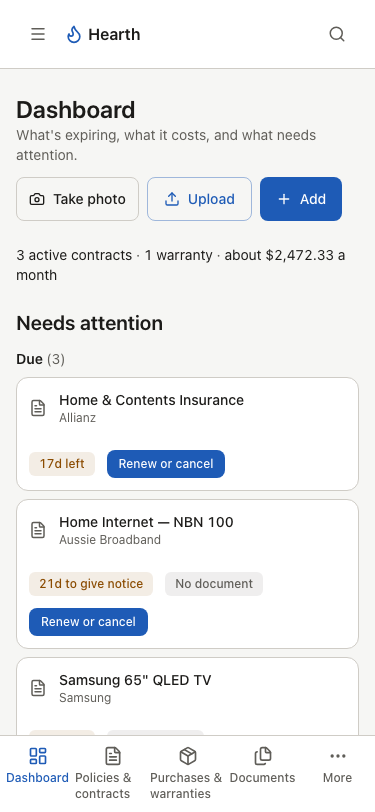
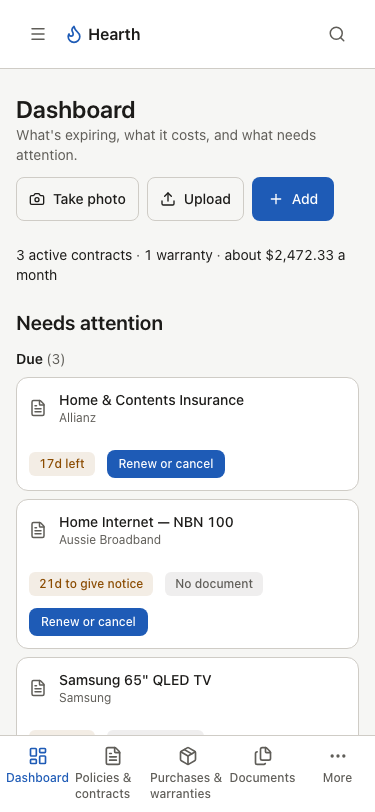
Address review of #401: hide upload controls from read-only members, tighten checks
- Take photo and Upload render only for non-READONLY members on the
  dashboard and Documents tabs; /import redirects READONLY to /documents,
  and the Documents empty state no longer offers them an upload link.
- Spec 07: each capture must bump the Inbox count; the overlap check also
  covers bottom-sticky elements and asserts the last control clears the
  bottom nav at the end of the page; new READONLY test.
- TakePhotoButton: hint span moved outside the label, no aria-disabled on
  the label. Dashboard Upload uses the neutral secondary style.
- Documents Filed tab no longer says "No undefined documents yet."
  (documentsEmptyMessage + unit test).
- Re-shot dashboard, mobile-dashboard and documents screenshots with
  INVENTORY enabled and the Ollama chat provider set.

Claude-Session: https://claude.ai/code/session_01C4ebYzrdU4xwEQQTpWrqmk

Changed region(s): [[0.44, 0.2155, 0.704, 0.2771], [0.792, 0.2155, 0.9093, 0.2771], [0.7333, 0.2155, 0.7627, 0.2463]]

diff --git a/e2e/specs/07-mobile-responsive.spec.ts b/e2e/specs/07-mobile-responsive.spec.ts
@@ -168,16 +168,19 @@ test("swiping from the left screen edge opens the navigation drawer, and the men
   await expect(drawer).toBeHidden();
 });
 
-// #401 (regression of #348): nothing fixed may sit over a tappable control
-// at any scroll position. The bottom nav is the one fixed bar allowed, since
-// <main>'s bottom padding lets the end of every page scroll clear of it.
-// Everything else (the old floating camera button and "Choose file" pill
-// covered dashboard rows and Documents links mid-page) fails this check.
+// #401 (regression of #348): nothing fixed, or stuck to the bottom edge, may
+// sit over a tappable control at any scroll position. The bottom nav is the
+// one bar allowed, since <main>'s bottom padding lets the end of every page
+// scroll clear of it (checked separately below). Everything else (the old
+// floating camera button and "Choose file" pill covered dashboard rows and
+// Documents links mid-page) fails this check.
 async function controlsCoveredByFixedUi(page: import("@playwright/test").Page) {
   return page.evaluate(() => {
     const bottomNav = document.querySelector("nav.fixed.bottom-0");
     const fixed = [...document.querySelectorAll<HTMLElement>("body *")].filter((el) => {
-      if (getComputedStyle(el).position !== "fixed") {
+      const style = getComputedStyle(el);
+      const pinnedToBottom = style.position === "sticky" && style.bottom !== "auto";
+      if (style.position !== "fixed" && !pinnedToBottom) {
         return false;
       }
       if (bottomNav && (el === bottomNav || bottomNav.contains(el))) {
@@ -215,6 +218,45 @@ async function controlsCoveredByFixedUi(page: import("@playwright/test").Page) {
   });
 }
 
+// With the page scrolled to the end, the last control in <main> must sit
+// fully above the bottom nav. This catches losing <main>'s bottom padding,
+// which the per-offset check above deliberately ignores.
+async function lastControlClearOfBottomNav(page: import("@playwright/test").Page) {
+  return page.evaluate(() => {
+    window.scrollTo(0, document.documentElement.scrollHeight);
+    const nav = document.querySelector("nav.fixed.bottom-0");
+    if (!nav) {
+      return { ok: false, detail: "bottom nav not found" };
+    }
+    const navTop = nav.getBoundingClientRect().top;
+    let lowest: { bottom: number; name: string } | null = null;
+    const controls = document.querySelectorAll<HTMLElement>(
+      "main a[href], main button, main label[for], main select, main textarea, main input:not([type=hidden]):not(.sr-only)",
+    );
+    for (const control of controls) {
+      const r = control.getBoundingClientRect();
+      if (r.width <= 1 || r.height <= 1 || !control.checkVisibility()) {
+        continue;
+      }
+      if (!lowest || r.bottom > lowest.bottom) {
+        lowest = { bottom: r.bottom, name: (control.textContent ?? "").trim().slice(0, 40) };
+      }
+    }
+    if (!lowest) {
+      return { ok: true, detail: "no controls" };
+    }
+    return {
+      ok: lowest.bottom <= navTop,
+      detail: `"${lowest.name}" ends at y=${Math.round(lowest.bottom)}, nav starts at y=${Math.round(navTop)}`,
+    };
+  });
+}
+
+async function inboxCount(page: import("@playwright/test").Page) {
+  const text = await page.getByRole("link", { name: /^Inbox/ }).textContent();
+  return Number(/\((\d+)\)/.exec(text ?? "")?.[1] ?? 0);
+}
+
 test.describe("fixed mobile UI never covers controls (#401)", () => {
   test.use({ viewport: { width: 390, height: 844 } });
 
@@ -245,6 +287,7 @@ test.describe("fixed mobile UI never covers controls (#401)", () => {
     await page.goto("/documents");
     await expect(page.getByRole("link", { name: "Upload", exact: true })).toBeVisible();
     for (let i = 0; i < 2; i++) {
+      const before = await inboxCount(page);
       await page.locator('main input[type="file"][accept="image/*"][capture]').setInputFiles({
         name: `overlap-photo-${stamp}-${i}.png`,
         mimeType: "image/png",
@@ -258,7 +301,9 @@ test.describe("fixed mobile UI never covers controls (#401)", () => {
           Buffer.from(`${stamp}-${i}`),
         ]),
       });
-      await expect(page.getByText("Saved to your Inbox for review.").first()).toBeVisible();
+      // Each capture must really land: the Inbox tab's count goes up by one
+      // (the button refreshes the page after saving).
+      await expect(page.getByRole("link", { name: /^Inbox/ })).toHaveText(`Inbox (${before + 1})`);
     }
 
     // The old floating controls are gone.
@@ -285,6 +330,59 @@ test.describe("fixed mobile UI never covers controls (#401)", () => {
         }
       }
       expect(covered).toEqual([]);
+
+      const end = await lastControlClearOfBottomNav(page);
+      expect(end.ok, `${path}: ${end.detail}`).toBe(true);
     }
+  });
+
+  test("read-only members see no upload controls, and /import sends them back to Documents", async ({
+    browser,
+  }) => {
+    const email = `readonly-${Date.now()}@e2e.local`;
+    const password = "E2eTestPassw0rd!23";
+
+    const adminContext = await browser.newContext({ storageState: ADMIN_AUTH_FILE });
+    const adminPage = await adminContext.newPage();
+    await adminPage.goto("/settings/users");
+    await adminPage.locator("#name").fill("Read-only Viewer");
+    await adminPage.locator("#email").fill(email);
+    await adminPage.locator("#password").fill(password);
+    await adminPage.locator("form:has(#password) select#role").selectOption("READONLY");
+    await adminPage.locator("form:has(#password) button[type=submit]").click();
+    await expect(adminPage.locator("body")).toContainText(email);
+
+    // Empty storage state: this file's test.use() would otherwise hand the
+    // new context the admin session too.
+    const viewerContext = await browser.newContext({
+      viewport: { width: 390, height: 844 },
+      storageState: { cookies: [], origins: [] },
+    });
+    const viewer = await viewerContext.newPage();
+    await viewer.goto("/login");
+    await viewer.locator('input[name="email"]').fill(email);
+    await viewer.locator('input[name="password"]').fill(password);
+    await viewer.locator("form button[type=submit]").click();
+    await viewer.waitForURL(/\/dashboard/);
+
+    for (const path of ["/dashboard", "/documents", "/documents/inbox"]) {
+      await viewer.goto(path);
+      await expect(viewer.locator("h1")).toBeVisible();
+      await expect(viewer.locator("main label", { hasText: "Take photo" })).toHaveCount(0);
+      await expect(viewer.locator('main input[type="file"][capture]')).toHaveCount(0);
+      await expect(viewer.getByRole("link", { name: /^Upload( a document)?$/ })).toHaveCount(0);
+    }
+
+    await viewer.goto("/import");
+    await expect(viewer).toHaveURL(/\/documents$/);
+    await viewerContext.close();
+
+    // Remove the extra account again so later specs see the usual household.
+    await adminPage.goto("/settings/users");
+    const row = adminPage.locator("li", { hasText: email });
+    await row.getByRole("button", { name: /Remove .* from the household/ }).click();
+    await adminPage.getByRole("button", { name: "Remove Read-only Viewer", exact: true }).click();
+    await expect(adminPage.locator("body")).not.toContainText(email);
+    await adminContext.close();
   });
 });

diff --git a/src/app/(app)/documents/page.tsx b/src/app/(app)/documents/page.tsx
@@ -5,6 +5,8 @@ import { getEnabledModuleKeys } from "@/lib/modules/enablement";
 import { getUserPreferences } from "@/lib/userPreferences";
 import { DocumentsExplorer, type DocRow } from "@/components/DocumentsExplorer";
 import { DocumentsTabs, DocumentsUploadActions } from "@/components/DocumentsTabs";
+import { documentsEmptyMessage } from "@/lib/documents/emptyMessage";
+import { auth } from "@/lib/auth";
 import { documentFileHref } from "@/lib/documents/kinds";
 import { LIVE_DOCUMENT_WHERE as LIVE } from "@/lib/documents/liveDocuments";
 
@@ -368,6 +370,8 @@ export default async function DocumentsPage({
   searchParams: Promise<{ type?: string; view?: string; page?: string }>;
 }) {
   const { type, view, page: pageParam } = await searchParams;
+  const session = await auth();
+  const canWrite = session?.user.role !== "READONLY";
   const showAll = view === "all";
   const page = Math.max(0, Number(pageParam) || 0);
 
@@ -405,6 +409,13 @@ export default async function DocumentsPage({
     docs = windowRows.slice(0, PAGE_SIZE);
   }
 
+  // null makes the explorer show its "Upload a document" empty state, which a
+  // read-only member can't use, so they get plain text instead.
+  let emptyMessage: string | null = documentsEmptyMessage(type, showAll);
+  if (totalCount === 0) {
+    emptyMessage = canWrite ? null : "No documents uploaded yet.";
+  }
+
   return (
     <div className="space-y-6">
       <div className="flex flex-wrap items-start justify-between gap-3">
@@ -416,7 +427,7 @@ export default async function DocumentsPage({
               : "Documents you've saved to a contract, warranty, or other record."}
           </p>
         </div>
-        <DocumentsUploadActions />
+        {canWrite && <DocumentsUploadActions />}
       </div>
 
       <DocumentsTabs
@@ -446,7 +457,7 @@ export default async function DocumentsPage({
       <DocumentsExplorer
         docs={docs}
         dateFormat={dateFormat}
-        emptyMessage={totalCount === 0 ? null : `No ${type?.toLowerCase()} documents yet.`}
+        emptyMessage={emptyMessage}
       />
 
       {(page > 0 || hasMore) && (

diff --git a/src/components/TakePhotoButton.tsx b/src/components/TakePhotoButton.tsx
@@ -46,35 +46,36 @@ export function TakePhotoButton() {
   }
 
   return (
-    <label
-      htmlFor={inputId}
-      aria-disabled={uploading}
-      className={cn(
-        compactButtonClass("secondary"),
-        "cursor-pointer gap-2 whitespace-nowrap md:hidden has-[:focus-visible]:outline has-[:focus-visible]:outline-2 has-[:focus-visible]:outline-offset-2 has-[:focus-visible]:outline-accent",
-      )}
-    >
-      {uploading ? <Loader2 size={16} className="animate-spin" /> : <Camera size={16} />}
-      Take photo
-      <input
-        ref={inputRef}
-        id={inputId}
-        type="file"
-        accept="image/*"
-        capture="environment"
-        disabled={uploading}
-        aria-describedby={`${inputId}-hint`}
-        className="sr-only"
-        onChange={(e) => {
-          const file = e.target.files?.[0];
-          if (file) {
-            void handleCapture(file);
-          }
-        }}
-      />
+    <>
+      <label
+        htmlFor={inputId}
+        className={cn(
+          compactButtonClass("secondary"),
+          "cursor-pointer gap-2 whitespace-nowrap md:hidden has-[:focus-visible]:outline has-[:focus-visible]:outline-2 has-[:focus-visible]:outline-offset-2 has-[:focus-visible]:outline-accent",
+        )}
+      >
+        {uploading ? <Loader2 size={16} className="animate-spin" /> : <Camera size={16} />}
+        Take photo
+        <input
+          ref={inputRef}
+          id={inputId}
+          type="file"
+          accept="image/*"
+          capture="environment"
+          disabled={uploading}
+          aria-describedby={`${inputId}-hint`}
+          className="sr-only"
+          onChange={(e) => {
+            const file = e.target.files?.[0];
+            if (file) {
+              void handleCapture(file);
+            }
+          }}
+        />
+      </label>
       <span id={`${inputId}-hint`} className="sr-only">
         The photo is saved to the shared household Inbox for review.
       </span>
-    </label>
+    </>
   );
 }

diff --git a/src/app/(app)/dashboard/page.tsx b/src/app/(app)/dashboard/page.tsx
@@ -27,6 +27,7 @@ import {
 import { contractRules, productRules, vehicleRules } from "@/lib/recordFilters";
 import { NeedsAttentionQueue } from "@/components/NeedsAttentionQueue";
 import { TakePhotoButton } from "@/components/TakePhotoButton";
+import { compactButtonClass } from "@/lib/buttonStyles";
 
 export const metadata: Metadata = { title: "Dashboard" };
 
@@ -145,17 +146,19 @@ export default async function DashboardPage() {
           </p>
         </div>
         <div className="flex items-center gap-2">
-          <TakePhotoButton />
-          <Link
-            href="/import"
-            className="flex min-h-11 items-center gap-2 rounded-lg border border-accent/40 px-4 py-2 text-sm font-medium text-accent hover:bg-accent/5"
-          >
-            <Upload size={16} />
-            {/* Shortened on phones so it fits beside Take photo and Add. */}
-            <span>
-              Upload<span className="hidden sm:inline"> a document</span>
-            </span>
-          </Link>
+          {/* Read-only members can't upload, so they get neither control. */}
+          {session?.user.role !== "READONLY" && (
+            <>
+              <TakePhotoButton />
+              <Link href="/import" className={`${compactButtonClass("secondary")} gap-2`}>
+                <Upload size={16} />
+                {/* Shortened on phones so it fits beside Take photo and Add. */}
+                <span>
+                  Upload<span className="hidden sm:inline"> a document</span>
+                </span>
+              </Link>
+            </>
+          )}
           <AddEntryPicker enabledModules={[...enabledModules]} />
         </div>
       </div>

diff --git a/src/app/(app)/documents/inbox/page.tsx b/src/app/(app)/documents/inbox/page.tsx
@@ -7,6 +7,7 @@ import { getDocumentStats } from "@/lib/documents/stats";
 import { findDocumentsByHashBatch, type DocumentKind } from "@/lib/documents/documentQueries";
 import { InboxReviewClient, type DuplicateMatch } from "@/components/InboxReviewClient";
 import { DocumentsTabs, DocumentsUploadActions } from "@/components/DocumentsTabs";
+import { auth } from "@/lib/auth";
 
 export const metadata: Metadata = { title: "Inbox" };
 
@@ -32,6 +33,8 @@ export default async function InboxPage({
 }) {
   const { page: pageParam } = await searchParams;
   const page = Math.max(0, Number(pageParam) || 0);
+  const session = await auth();
+  const canWrite = session?.user.role !== "READONLY";
 
   const [rows, enabledModules, { dateFormat }] = await Promise.all([
     prisma.inboxDocument.findMany({
@@ -90,7 +93,7 @@ export default async function InboxPage({
             Documents saved without picking a destination yet. Classify each one, or discard it.
           </p>
         </div>
-        <DocumentsUploadActions />
+        {canWrite && <DocumentsUploadActions />}
       </div>
 
       <DocumentsTabs

diff --git a/src/app/(app)/import/page.tsx b/src/app/(app)/import/page.tsx
@@ -1,4 +1,6 @@
 import type { Metadata } from "next";
+import { redirect } from "next/navigation";
+import { auth } from "@/lib/auth";
 import { prisma } from "@/lib/prisma";
 import { ImportClient } from "@/components/ImportClient";
 import { getEnabledModuleKeys } from "@/lib/modules/enablement";
@@ -6,6 +8,13 @@ import { getEnabledModuleKeys } from "@/lib/modules/enablement";
 export const metadata: Metadata = { title: "Upload documents" };
 
 export default async function ImportPage() {
+  // Read-only members can't save documents (the save actions reject them),
+  // so send them to Documents instead of a queue that can only fail.
+  const session = await auth();
+  if (session?.user.role === "READONLY") {
+    redirect("/documents");
+  }
+
   const enabledModules = await getEnabledModuleKeys();
 
   const [properties, vehicles] = await Promise.all([

diff --git a/tests/unit/documents-empty-message.test.ts b/tests/unit/documents-empty-message.test.ts
@@ -1,0 +1,14 @@
+import { describe, expect, it } from "vitest";
+import { documentsEmptyMessage } from "@/lib/documents/emptyMessage";
+
+describe("documentsEmptyMessage", () => {
+  it("names the selected type", () => {
+    expect(documentsEmptyMessage("Vehicles", false)).toBe("No vehicles documents yet.");
+    expect(documentsEmptyMessage("Travel", true)).toBe("No travel documents yet.");
+  });
+
+  it("never says 'undefined' when no type is selected", () => {
+    expect(documentsEmptyMessage(undefined, false)).toBe("No filed documents yet.");
+    expect(documentsEmptyMessage(undefined, true)).toBe("No documents yet.");
+  });
+});

diff --git a/src/lib/documents/emptyMessage.ts b/src/lib/documents/emptyMessage.ts
@@ -1,0 +1,9 @@
+// Message for the Documents list when the household has documents but the
+// current tab and type filter match none of them. With no type chip selected
+// on the Filed tab, this used to read "No undefined documents yet."
+export function documentsEmptyMessage(type: string | undefined, showAll: boolean): string {
+  if (type) {
+    return `No ${type.toLowerCase()} documents yet.`;
+  }
+  return showAll ? "No documents yet." : "No filed documents yet.";
+}

diff --git a/CHANGELOG.md b/CHANGELOG.md
@@ -240,7 +240,10 @@ Versions follow [Semantic Versioning](https://semver.org/), starting at `0.1.0`.
   cover rows and buttons on the Dashboard and Documents pages (#401). Both
   are gone: "Take photo" now sits in the page header next to Upload on the
   Dashboard and every Documents tab, and still saves the photo to the Inbox.
-  Documents also gets an Upload button in its header.
+  Documents also gets an Upload button in its header. Read-only members see
+  neither button, and `/import` sends them back to Documents.
+- The Documents Filed tab no longer says "No undefined documents yet." when
+  nothing is filed but the Inbox has documents.
 - Permanently deleting a property (from Trash, or when its 30 days run
   out) now also removes its Rental statement files from disk; only the
   database rows were removed before (#396).
